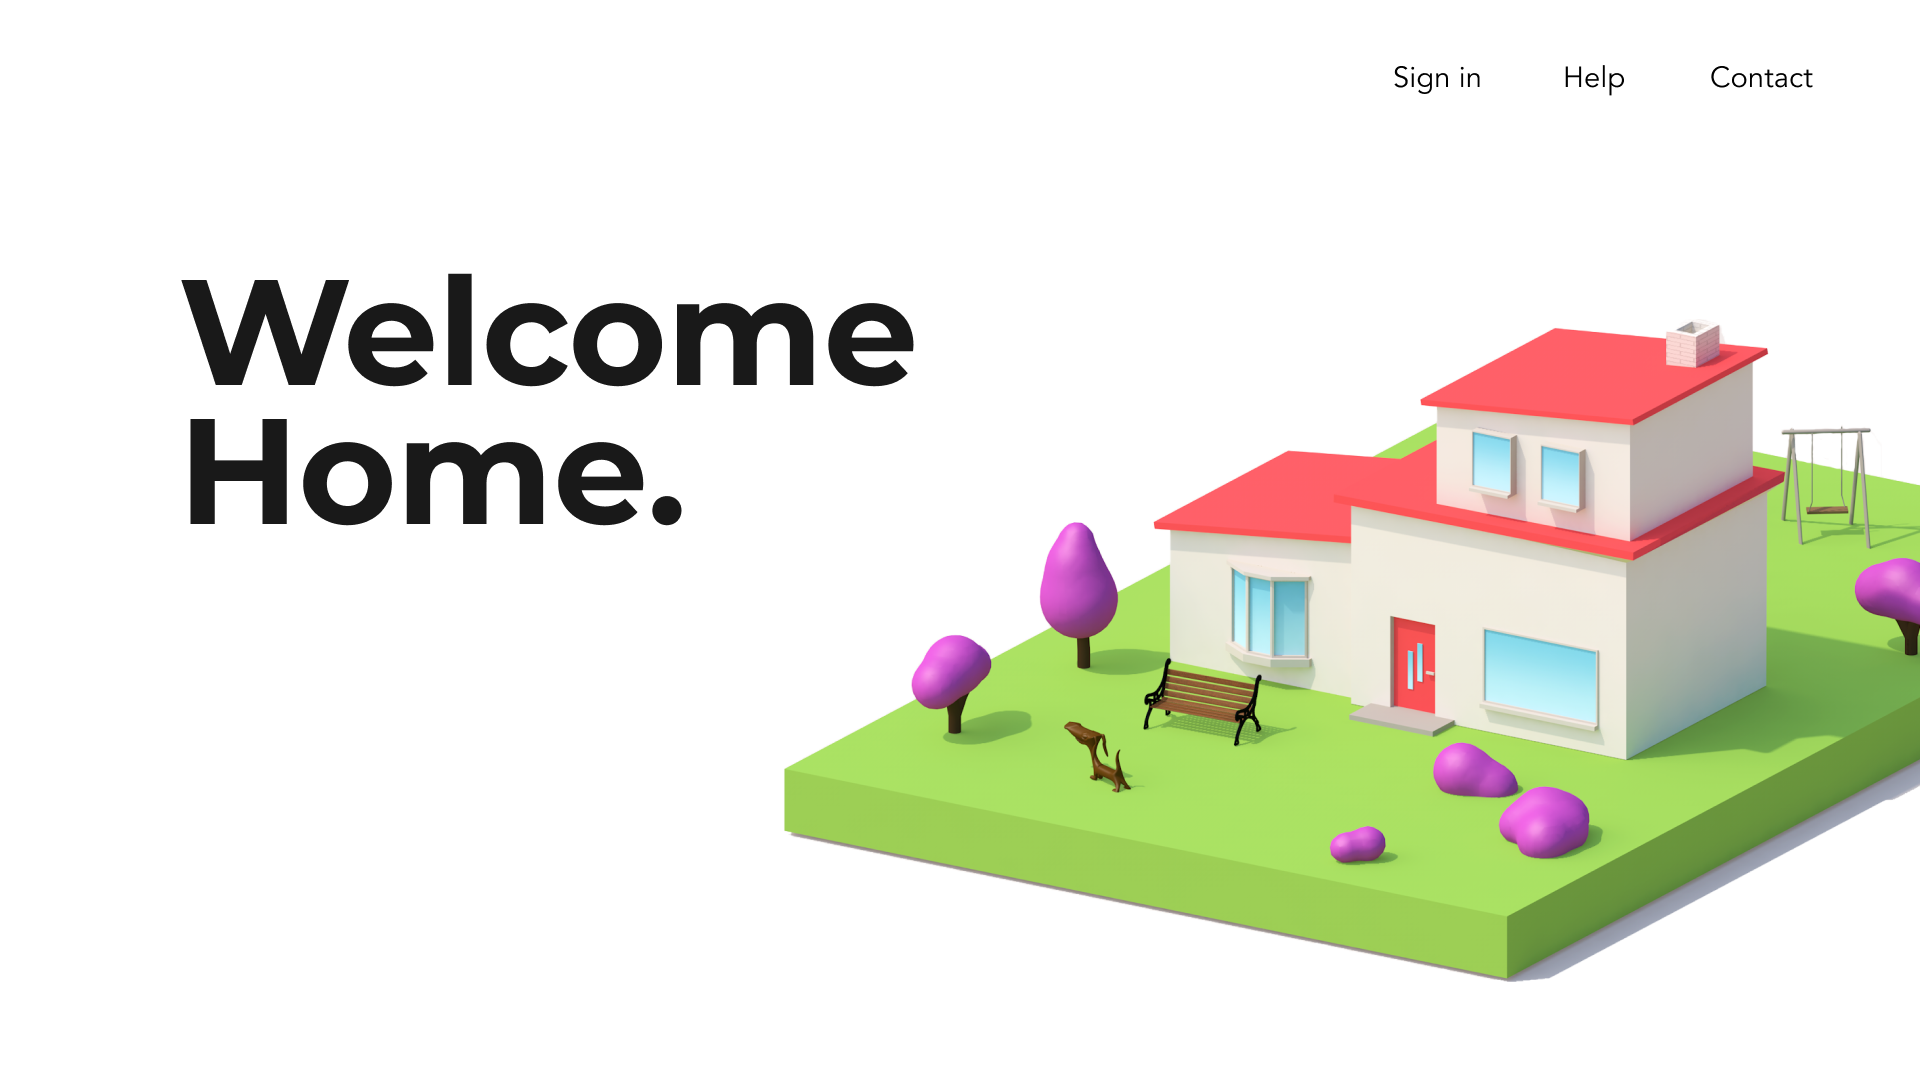
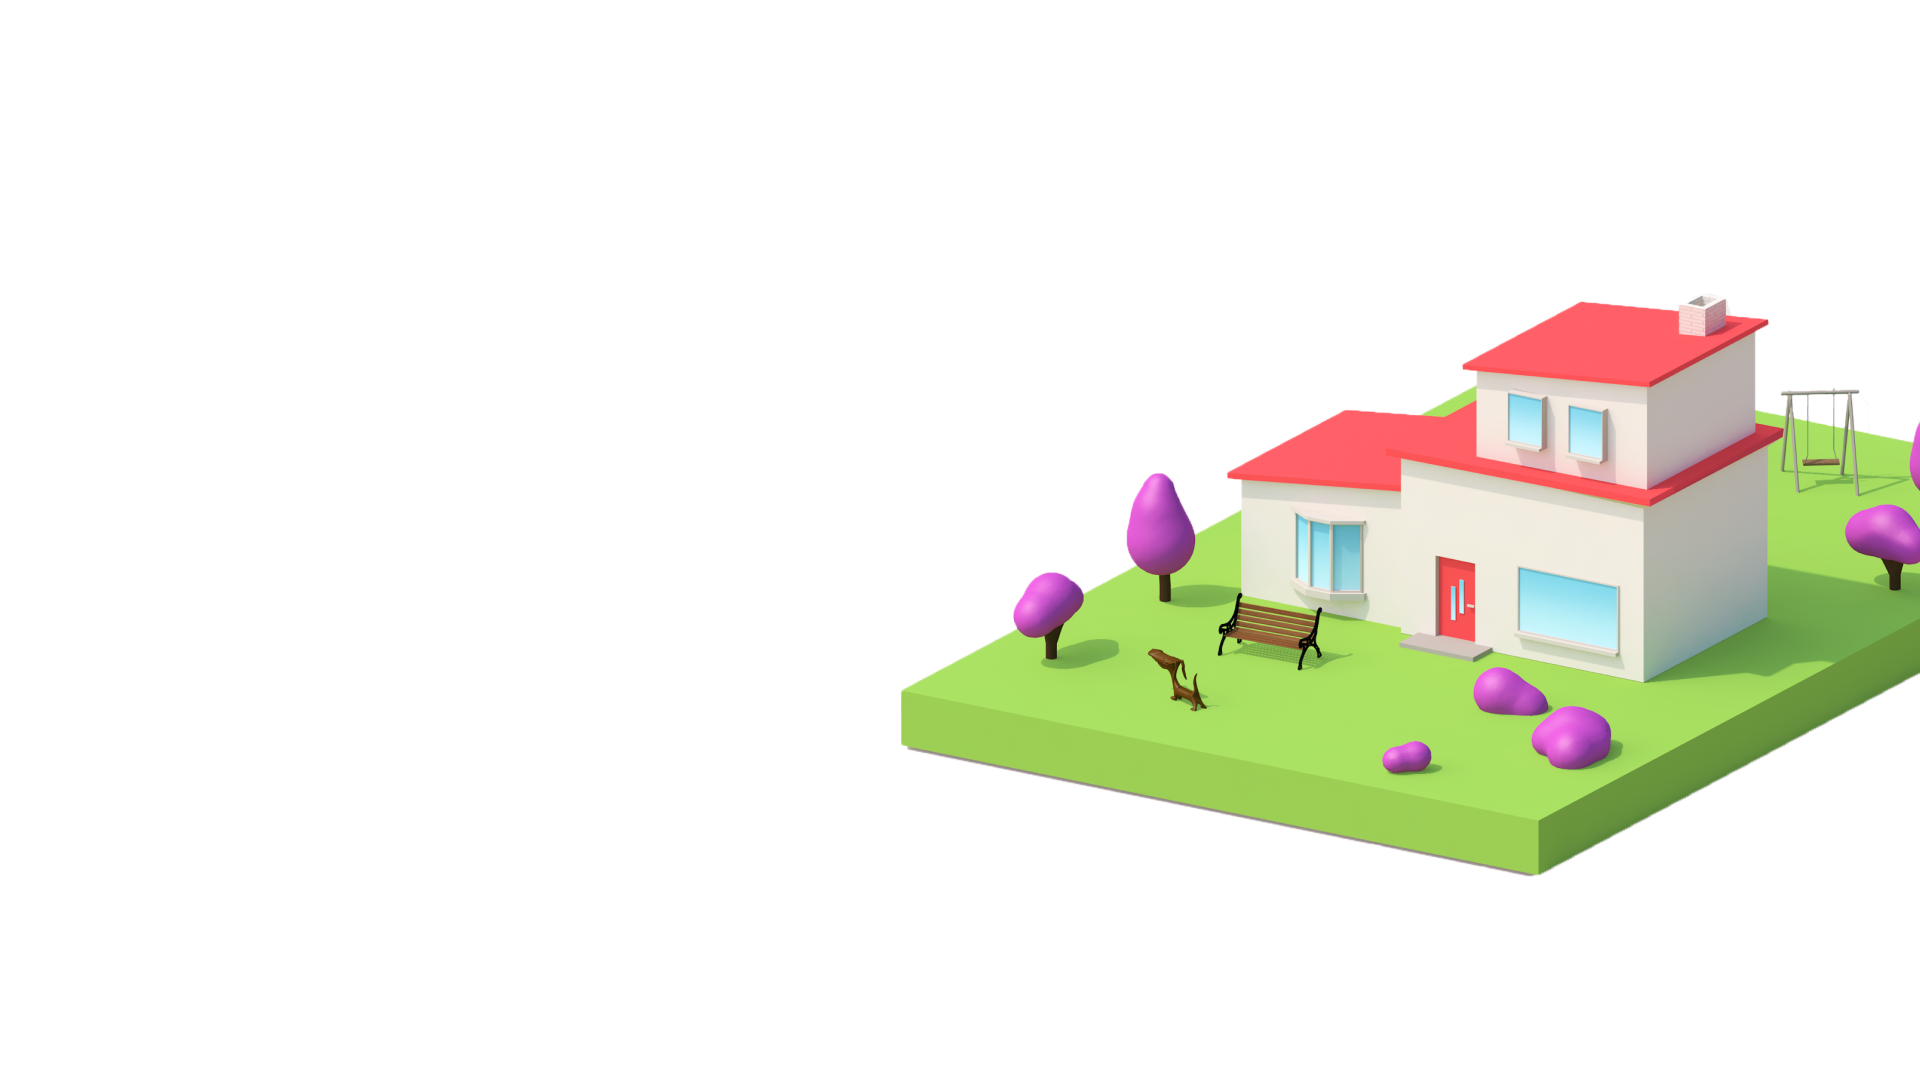
title screen added

diff --git a/index.html b/index.html
@@ -3,12 +3,15 @@
   <head>
     <meta name="viewport" content="initial-scale=1.0, user-scalable=no">
     <meta charset="utf-8">
+    <link href="https://fonts.googleapis.com/css?family=Montserrat:700&display=swap" rel="stylesheet">
     <title>Place Search Pagination</title>
     <style>
       /* Always set the map height explicitly to define the size of the div
        * element that contains the map. */
       #map {
         height: 100%;
+        z-index: 2;
+        display: block;
       }
       /* Optional: Makes the sample page fill the window. */
       html, body {
@@ -16,10 +19,42 @@
         margin: 0;
         padding: 0;
       }
-      #right-panel {
-        font-family: 'Roboto','sans-serif';
-        line-height: 30px;
-        padding-left: 10px;
+
+      #startingScreen{
+        visibility: visible;
+      }
+      #search{
+        position: absolute;
+        width: 400px;
+        height: 45px;
+        left: 130px;
+        margin-top: 50%;
+        z-index: 999999;
+        background: #5A9D42;
+        font-family: 'Montserrat', sans-serif;
+        border-radius: 56px;
+      }
+
+      #search:hover{
+        background: rgb(65, 112, 48);
+      }
+
+      #input{
+        position: absolute;
+        width: 400px;
+        height: 45px;
+        left: 130px;
+        z-index: 99999;
+        margin-top: 45%;
+      }
+
+      #startScreen{
+        visibility: visible;
+        z-index: 100;
+        width: 100%;
+        height: 100%;
+        display: block;
+        position: absolute;
       }
 
       #right-panel select, #right-panel input {
@@ -42,9 +77,15 @@
         height: 330px;
         width: 200px;
         padding: 5px;
-        z-index: 5;
         border: 1px solid #999;
         background: #fff;
+        font-family: 'Roboto','sans-serif';
+        line-height: 30px;
+        padding-left: 10px;
+        z-index: 4;
+        display: block;
+        position: absolute;
+
       }
       h2 {
         font-size: 22px;
@@ -65,9 +106,47 @@
         white-space: nowrap;
         overflow: hidden;
       }
+      #subtitle{
+        position: absolute;
+        width: 500px;
+        height: 100px;
+        left: 130px;
+        top: 350px;
+        z-index: 999999;
+
+        font-family: 'Montserrat', sans-serif;
+        font-size: 25px;
+        line-height: 150%;
+        /* or 52px */
+
+        letter-spacing: -0.005em;
+
+        color: #5E5E5E;
+
+      }
+
+      #title{
+        position: absolute;
+        width: 700px;
+        height: 300px;
+        left: 120px;
+        margin-top: 5%;
+
+        font-family: 'Montserrat', sans-serif;
+        font-style: normal;
+        font-weight: 800;
+        font-size: 90px;
+        z-index: 999999;
+
+        letter-spacing: -0.005em;
+
+        color: #1A1A1A;
+      }
+
       li:nth-child(odd) {
         background-color: #fcfcfc;
       }
+
       #more {
         width: 100%;
         margin: 5px 0 0 0;
@@ -75,7 +154,13 @@
     </style>
   </head>
   <body>
-    <img src =
+    <div id = "startingScreen">
+      <p id= "title">Welcome Home</p>
+        <img id = "startScreen" src = "media/Home.png">
+        <p id="subtitle">Moving is hard. We get that. That’s why we made a tool that does all the hard work for you.</p>
+        <img id = "input" src = "media/input.png">
+        <button id="search" onclick="hideScreen()">Search</button>
+    </div>
       <div id="floating-panel">
           <input id="address" type="textbox" value="New York City, New York">
           <input id="submit" type="button" value="Go">
@@ -86,8 +171,6 @@
       <ul id="places"></ul>
       <button id="more">More results</button>
     </div>
-    <!-- <script src="https://maps.googleapis.com/maps/api/js?key=AIzaSyBjHH561CCJ27qQ4CRfhT1SBLRBK4ueTmo&libraries=places&callback=initMap" async defer></script> -->
-
     <script>
         var map;
         var latitude;
@@ -120,6 +203,12 @@
             });
           }
         })();
+
+        function hideScreen(){
+          this.document.getElementById("startingScreen").style.visibility = "hidden";
+          this.document.getElementById("startScreen").style.visibility = "hidden";
+          this.document.getElementById("map").style.visibility = "visible";
+        }
   
         function searchMap(latitude, longitude) {  
           // Create the places service.
